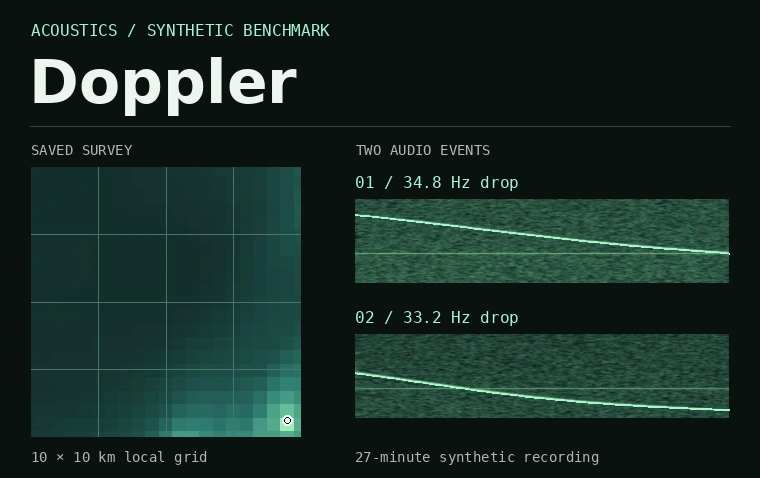
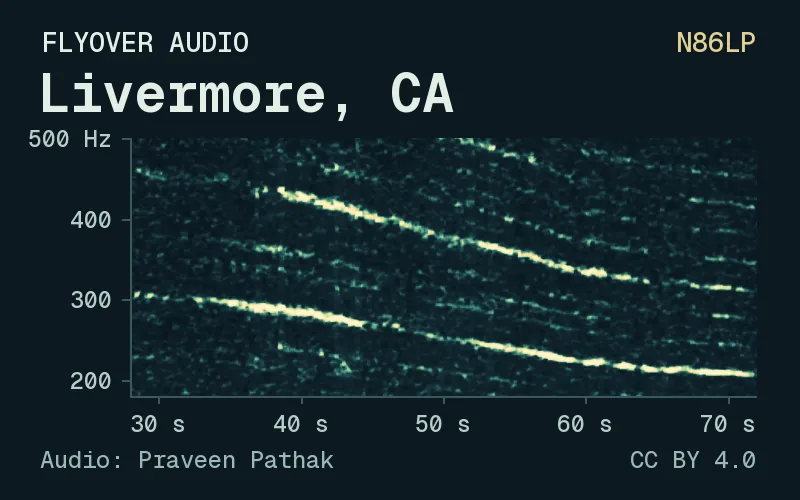
Use a Livermore spectrogram for the Doppler project card

diff --git a/index.html b/index.html
@@ -83,8 +83,8 @@
         </header>
         <ul class="project-grid" aria-label="Projects">
           <li class="project-tile">
-            <a class="tile-link" href="./doppler/" aria-label="Aircraft Geolocation with Audio, open the Livermore search demo">
-              <span class="tile-frame"><img src="./assets/frames/doppler.webp" alt="" decoding="async"></span>
+            <a class="tile-link" href="./doppler/" aria-label="Aircraft Geolocation with Audio, open the Livermore search demo" aria-describedby="livermore-thumbnail">
+              <span class="tile-frame"><img id="livermore-thumbnail" src="./assets/frames/doppler.webp?v=livermore-n86lp" width="800" height="500" alt="N86LP spectrogram: the flyover’s pitch falls over time. Recording by Praveen Pathak, CC BY 4.0." decoding="async"></span>
               <span class="tile-title"><span>Aircraft Geolocation with Audio</span><span class="tile-arrow" aria-hidden="true">↗</span></span>
             </a>
           </li>

diff --git a/README.md b/README.md
@@ -15,5 +15,6 @@ On localhost, Ask uses local project answers unless the form points to a same-or
 
 ## Credits
 
+- Doppler thumbnail: a spectrogram of the N86LP flyover, 28–72 seconds into [Praveen Pathak’s Livermore recording](https://doi.org/10.5281/zenodo.24075029), used under [CC BY 4.0](https://creativecommons.org/licenses/by/4.0/).
 - ASCII shark renderer and schooling simulation adapted from [stackedlol/ascii-sharks](https://github.com/stackedlol/ascii-sharks).
 - Fonts: [Geist Mono, SIL Open Font License](assets/fonts/LICENSE-Geist-Mono.txt) and [Noto Mono, Apache 2.0](assets/fonts/LICENSE-Noto-Mono.txt).
